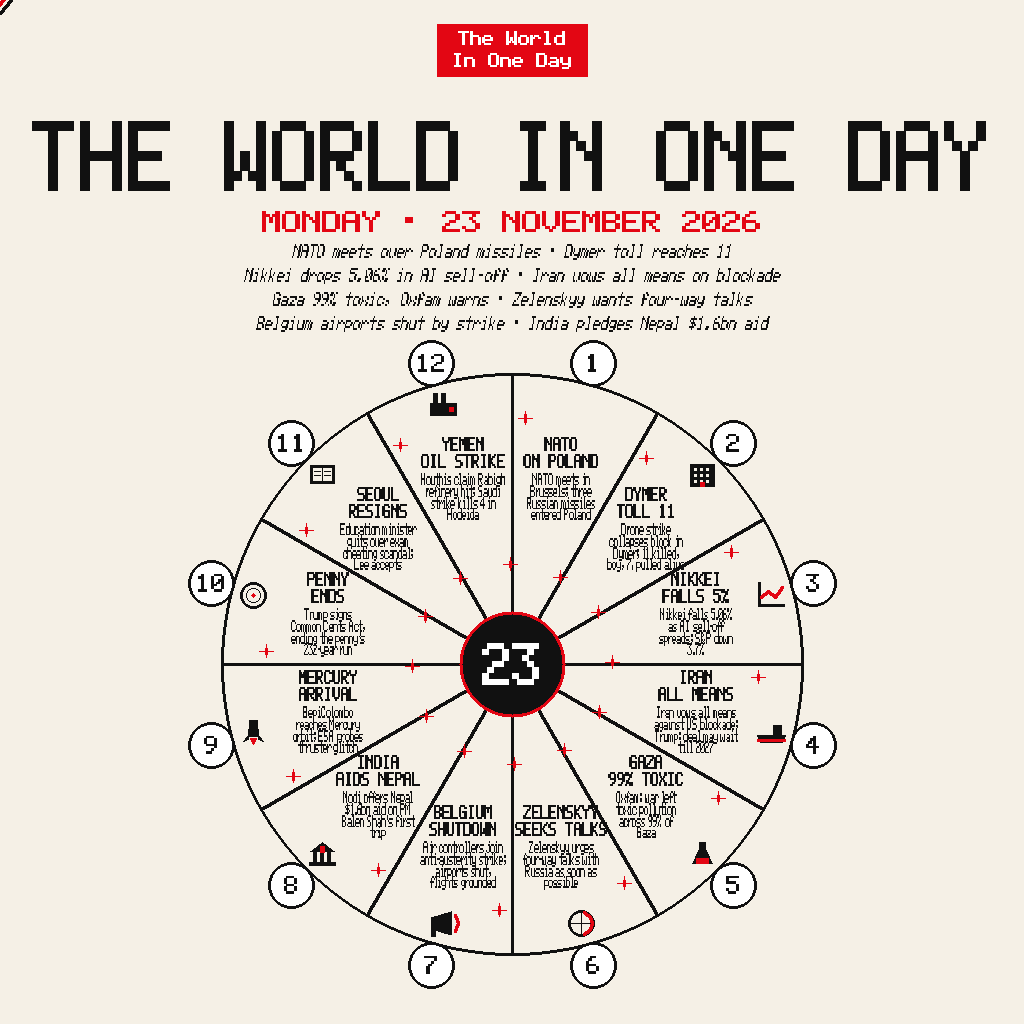
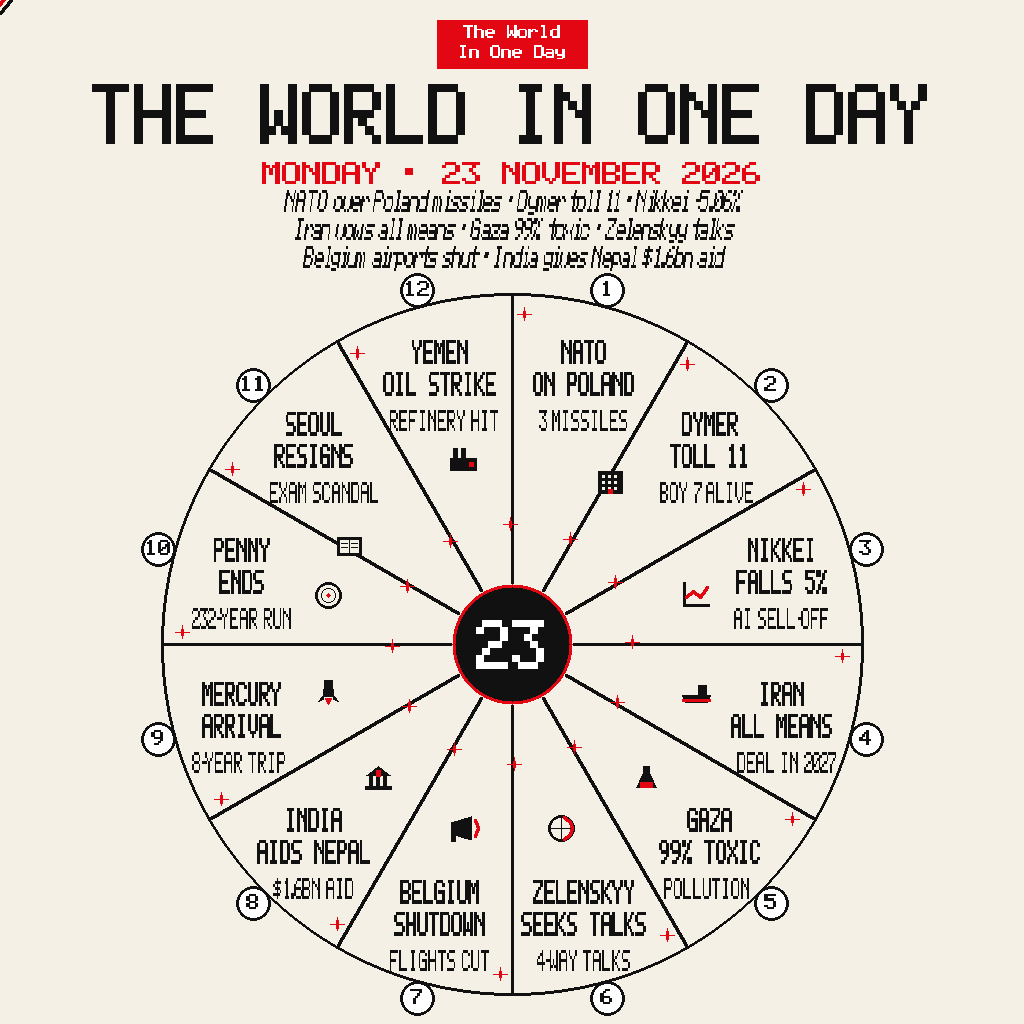
Legibility fix: bigger wheel (RIM 350), larger headlines, span-clamped text
- Wheel radius 290 -> 350 (EL: gedein lingkaranya), centre shifted to fit
- Headlines 1.4/2.0 -> 1.9/3.4 so they read at 300px; body cut to one
  short fact line per slice at 1.6/3.0; subtitle 4 lines -> 3 larger lines
- Fix wedge-span bug: tan-based ray sentinel had the wrong sign for the
  270-degree ray, mirroring the 240-270 and 270-300 spans to the wrong
  side (PENNY/MERCURY text landed in the wrong half). Rays now use a
  forward-direction test; lines are clamped into their wedge span
  instead of centred on the span, so nothing clips a spoke.
- Verified: two runs byte-identical, 1024x1024, 23,581 bytes, zero fit
  warnings, all 12 headlines + fact lines readable at 300px.

Changed region(s): [[0.0312, 0.0, 0.9688, 1.0], [0.1875, 0.4375, 0.2188, 0.4688]]

diff --git a/main.py b/main.py
@@ -4,14 +4,16 @@
 Stdlib only, no network, deterministic: two runs write identical bytes.
 Writes a 1024x1024 PNG to $MAKEFUN_OUTPUT_DIR/entry.png (default /output).
 Layout: Economist-style cover -- red masthead, huge condensed title,
-red date line, 4-line italic subtitle, and a 12-slice clock wheel, one
-slice per verified story of Monday 23 November 2026.
+red date line, 3-line italic subtitle, and a large 12-slice clock wheel
+(RIM 350), one slice per verified story of Monday 23 November 2026.
+Each slice carries a big two-line headline plus one short fact line,
+all sized to stay readable when the image is viewed at 300px.
 """
 import os
 import struct
 import sys
 import zlib
-from math import cos, pi, sin, sqrt, tan
+from math import cos, pi, sin, sqrt
 
 W = H = 1024
 CREAM = (245, 240, 230)
@@ -280,11 +282,11 @@ def text_c(s, cx, y, sx, sy, c, bold=False, italic=False, mono=True):
     text(s, cx - text_width(s, sx, mono) / 2, y, sx, sy, c, bold, italic, mono)
 
 # ---------------------------------------------------------------- wedges
-CX, CY = 512, 664
-RIM = 290
-ROSETTE = 52
-NUM_R = 312
-NUM_CIRCLE_R = 22
+CX, CY = 512, 644
+RIM = 350
+ROSETTE = 60
+NUM_R = 366
+NUM_CIRCLE_R = 16
 
 
 def _deg2rad(a):
@@ -292,11 +294,21 @@ def _deg2rad(a):
 
 
 def _ray_x(dy, a):
-    """x where the ray at angle a (deg, clockwise from top) crosses y=CY+dy."""
-    t = tan(_deg2rad(a))
-    if abs(t) > 1e6:
-        return 1e9 if t > 0 else -1e9
-    return CX - dy * t
+    """x where the ray at angle a (deg, clockwise from top) crosses y=CY+dy.
+
+    Returns None when the ray does not cross that row in the forward
+    direction (it points away from the row, or is horizontal). The old
+    tan-based version returned a huge sentinel with the wrong sign for
+    the 270-degree ray, which mirrored the spans of the 240-270 and
+    270-300 wedges onto the wrong side of the wheel.
+    """
+    c = cos(_deg2rad(a))
+    if abs(c) < 1e-9:
+        return None
+    t = -dy / c
+    if t < 0:
+        return None
+    return CX + sin(_deg2rad(a)) * t
 
 
 def wedge_span(a1, a2, y):
@@ -313,8 +325,22 @@ def wedge_span(a1, a2, y):
     hi = CX + dx
     x1 = _ray_x(dy, a1)
     x2 = _ray_x(dy, a2)
-    lo = max(lo, min(x1, x2))
-    hi = min(hi, max(x1, x2))
+    if x1 is None and x2 is None:
+        return None
+    if x1 is None:
+        # wedge extends from the x2 crossing toward a1's direction
+        if sin(_deg2rad(a1)) > 0:
+            lo = max(lo, x2)
+        else:
+            hi = min(hi, x2)
+    elif x2 is None:
+        if sin(_deg2rad(a2)) > 0:
+            lo = max(lo, x1)
+        else:
+            hi = min(hi, x1)
+    else:
+        lo = max(lo, min(x1, x2))
+        hi = min(hi, max(x1, x2))
     if hi <= lo:
         return None
     return (lo, hi)
@@ -335,7 +361,22 @@ def fit_span(a1, a2, y_top, height):
     return (lo, hi)
 
 
-def check_line(label, s, y_top, height, sx, a1, a2, tol=24, mono=True):
+def line_cx(top, height, a1, a2, bx, w):
+    """Centre x for a line so it sits inside its wedge span.
+
+    The wedge span shifts sideways across a line's rows (diagonal
+    spokes), so a line centred on the block centre can clip a spoke
+    even when its width fits. Keep the block centre when the line
+    fits there, and shift it only as far as needed to clear the span.
+    """
+    span = fit_span(a1, a2, top, height)
+    if span is None:
+        return bx
+    lo, hi = span
+    return min(max(bx, lo + w / 2), hi - w / 2)
+
+
+def check_line(label, s, y_top, height, sx, a1, a2, tol=0, mono=True):
     """Warn when a line is wider than its wedge span (plus tolerance)."""
     span = fit_span(a1, a2, y_top, height)
     w = text_width(s, sx, mono)
@@ -456,66 +497,59 @@ PICS = {
 # ---------------------------------------------------------------- layout
 # One slice per story. mid = (k-0.5)*30 degrees clockwise from top.
 # The text block is centred at polar(BLOCK_R, mid) and laid out in
-# screen coordinates: headline lines above the centre, content below.
-# Offsets are screen-y pixels from the block centre.
-BLOCK_R = 190
-HEAD_OFF = (-36, -19)
-BODY_OFF4 = (-1, 11, 23, 34)
-BODY_OFF3 = (-1, 11, 23)
-PIC_R = 268
+# screen coordinates: two big headline lines, then one short fact line.
+# Offsets are screen-y pixels from the block centre. The pictogram sits
+# on the mid-ray inside the text block (toward the rosette), clear of
+# the text boxes.
+BLOCK_R = 280
+HEAD_OFF = (-34, -2)
+BODY_OFF = (36,)
+PIC_R = 190
 
 SLICES = [
-    # (headline 2 lines, content lines, pictogram)
+    # (headline 2 lines, one short fact line, pictogram)
     (["NATO", "ON POLAND"],
-     ["NATO meets in", "Brussels; three", "Russian missiles", "entered Poland"],
+     ["3 MISSILES"],
      'shield'),
     (["DYMER", "TOLL 11"],
-     ["Drone strike", "collapses block in", "Dymer; 11 killed,",
-      "boy, 7, pulled alive"],
+     ["BOY 7 ALIVE"],
      'building'),
     (["NIKKEI", "FALLS 5%"],
-     ["Nikkei falls 5.06%", "as AI sell-off", "spreads; S&P down", "3.7%"],
+     ["AI SELL-OFF"],
      'chart'),
     (["IRAN", "ALL MEANS"],
-     ["Iran vows all means", "against US blockade;", "Trump: deal may wait",
-      "till 2027"],
+     ["DEAL IN 2027"],
      'tanker'),
     (["GAZA", "99% TOXIC"],
-     ["Oxfam: war left", "toxic pollution", "across 99% of", "Gaza"],
+     ["POLLUTION"],
      'flask'),
     (["ZELENSKYY", "SEEKS TALKS"],
-     ["Zelenskyy urges", "four-way talks with", "Russia as soon as",
-      "possible"],
+     ["4-WAY TALKS"],
      'globe'),
     (["BELGIUM", "SHUTDOWN"],
-     ["Air controllers join", "anti-austerity strike;", "airports shut,",
-      "flights grounded"],
+     ["FLIGHTS CUT"],
      'megaphone'),
     (["INDIA", "AIDS NEPAL"],
-     ["Modi offers Nepal", "$1.6bn aid on PM", "Balen Shah's first", "trip"],
+     ["$1.6BN AID"],
      'capitol'),
     (["MERCURY", "ARRIVAL"],
-     ["BepiColombo", "reaches Mercury", "orbit; ESA probes", "thruster glitch"],
+     ["8-YEAR TRIP"],
      'rocket'),
     (["PENNY", "ENDS"],
-     ["Trump signs", "Common Cents Act,", "ending the penny's",
-      "232-year run"],
+     ["232-YEAR RUN"],
      'coin'),
     (["SEOUL", "RESIGNS"],
-     ["Education minister", "quits over exam", "cheating scandal;",
-      "Lee accepts"],
+     ["EXAM SCANDAL"],
      'book'),
     (["YEMEN", "OIL STRIKE"],
-     ["Houthis claim Rabigh", "refinery hit; Saudi", "strike kills 4 in",
-      "Hodeida"],
+     ["REFINERY HIT"],
      'factory'),
 ]
 
 SUBTITLE = [
-    "NATO meets over Poland missiles \u00b7 Dymer toll reaches 11",
-    "Nikkei drops 5.06% in AI sell-off \u00b7 Iran vows all means on blockade",
-    "Gaza 99% toxic, Oxfam warns \u00b7 Zelenskyy wants four-way talks",
-    "Belgium airports shut by strike \u00b7 India pledges Nepal $1.6bn aid",
+    "NATO over Poland missiles \u00b7 Dymer toll 11 \u00b7 Nikkei -5.06%",
+    "Iran vows all means \u00b7 Gaza 99% toxic \u00b7 Zelenskyy talks",
+    "Belgium airports shut \u00b7 India gives Nepal $1.6bn aid",
 ]
 
 
@@ -530,16 +564,19 @@ def pic_offset(k, head, body, bx, by):
     the pictogram centre must stay >= 39px from the number-circle centre.
     """
     mid = (k - 0.5) * 30
+    a1 = (k - 1) * 30
+    a2 = k * 30
     boxes = []
     for i, h in enumerate(head):
-        w = text_width(h, 1.4)
-        boxes.append((bx - w / 2 - 3, by + HEAD_OFF[i] - 8,
-                      bx + w / 2 + 3, by + HEAD_OFF[i] + 8))
-    offs = BODY_OFF4 if len(body) == 4 else BODY_OFF3
+        w = text_width(h, 1.9)
+        lcx = line_cx(by + HEAD_OFF[i], 28, a1, a2, bx, w)
+        boxes.append((lcx - w / 2 - 3, by + HEAD_OFF[i] - 3,
+                      lcx + w / 2 + 3, by + HEAD_OFF[i] + 31))
     for j, ln in enumerate(body):
-        w = text_width(ln, 0.9, mono=False)
-        boxes.append((bx - w / 2 - 3, by + offs[j] - 7,
-                      bx + w / 2 + 3, by + offs[j] + 7))
+        w = text_width(ln, 1.6, mono=False)
+        lcx = line_cx(by + BODY_OFF[j], 24, a1, a2, bx, w)
+        boxes.append((lcx - w / 2 - 3, by + BODY_OFF[j] - 3,
+                      lcx + w / 2 + 3, by + BODY_OFF[j] + 27))
     nx, ny = polar(NUM_R, mid)
     for off in (0, -14, 14, -24, 24):
         px, py = polar(PIC_R, mid + off)
@@ -565,42 +602,41 @@ def draw_slice(k, head, body, pic):
     off = pic_offset(k, head, body, bx, by)
     px, py = polar(PIC_R, mid + off)
     PICS[pic](int(round(px)), int(round(py)))
-    # headlines, bold monospace, centred on the block centre x
+    # headlines, bold monospace, centred inside their wedge span
     for i, h in enumerate(head):
-        top = by + HEAD_OFF[i] - 7
-        check_line("slice %d head %d" % (k, i + 1), h, top, 15, 1.4, a1, a2)
-        text_c(h, bx, top, 1.4, 2.0, INK, bold=True)
-    # content lines, proportional
-    offs = BODY_OFF4 if len(body) == 4 else BODY_OFF3
+        top = by + HEAD_OFF[i]
+        check_line("slice %d head %d" % (k, i + 1), h, top, 28, 1.9, a1, a2)
+        text_c(h, line_cx(top, 28, a1, a2, bx, text_width(h, 1.9)), top, 1.9, 3.4, INK, bold=True)
+    # one short fact line, proportional
     for j, ln in enumerate(body):
-        top = by + offs[j] - 6
-        check_line("slice %d body %d" % (k, j + 1), ln, top, 14, 0.9, a1, a2,
+        top = by + BODY_OFF[j]
+        check_line("slice %d body %d" % (k, j + 1), ln, top, 24, 1.6, a1, a2,
                    mono=False)
-        text_c(ln, bx, top, 0.9, 1.75, INK, mono=False)
+        text_c(ln, line_cx(top, 24, a1, a2, bx, text_width(ln, 1.6, mono=False)), top, 1.6, 3.0, INK, mono=False)
     # red sparkles, scattered inside the wedge
-    for (r, ang) in ((246, mid - 12), (100, mid + 14)):
+    for (r, ang) in ((330, mid - 13), (120, mid + 14)):
         sxp, syp = polar(r, ang)
         star4(int(round(sxp)), int(round(syp)), 7, RED)
 
 
 def draw():
     # masthead
-    fill_rect(437, 24, 587, 76, RED)
-    text_c("The World", 512, 31, 2, 2, WHITE, bold=True)
-    text_c("In One Day", 512, 53, 2, 2, WHITE, bold=True)
+    fill_rect(437, 20, 587, 68, RED)
+    text_c("The World", 512, 25, 1.8, 1.8, WHITE, bold=True)
+    text_c("In One Day", 512, 45, 1.8, 1.8, WHITE, bold=True)
     # title, date, subtitle
-    text_c("THE WORLD IN ONE DAY", 512, 121, 8, 10, INK, bold=True)
-    text_c("MONDAY \u00b7 23 NOVEMBER 2026", 512, 211, 10 / 3, 3, RED, bold=True)
+    text_c("THE WORLD IN ONE DAY", 512, 84, 7, 8.5, INK, bold=True)
+    text_c("MONDAY \u00b7 23 NOVEMBER 2026", 512, 162, 10 / 3, 3.2, RED, bold=True)
     for i, ln in enumerate(SUBTITLE):
-        text_c(ln, 512, 244 + i * 24, 4 / 3, 2, INK, italic=True)
+        text_c(ln, 512, 190 + i * 28, 1.8, 3.1, INK, italic=True, mono=False)
     # wheel: rim and spokes first, text and icons on top
     circle(CX, CY, RIM, INK, 3)
     for k in range(12):
         a = _deg2rad(k * 30)
-        x0 = CX + 54 * sin(a)
-        y0 = CY - 54 * cos(a)
-        x1 = CX + 288 * sin(a)
-        y1 = CY - 288 * cos(a)
+        x0 = CX + 62 * sin(a)
+        y0 = CY - 62 * cos(a)
+        x1 = CX + 348 * sin(a)
+        y1 = CY - 348 * cos(a)
         line(int(round(x0)), int(round(y0)), int(round(x1)), int(round(y1)),
              INK, 2)
     # number circles
@@ -610,11 +646,11 @@ def draw():
         nx, ny = int(round(nx)), int(round(ny))
         fill_circle(nx, ny, NUM_CIRCLE_R, WHITE)
         circle(nx, ny, NUM_CIRCLE_R, INK, 2)
-        text_c(str(k), nx, ny - 9, 2.5, 2.5, INK, bold=True)
+        text_c(str(k), nx, ny - 9, 2.2, 2.2, INK, bold=True)
     # rosette
-    fill_circle(CX, CY, 53, RED)
-    fill_circle(CX, CY, 50, INK)
-    text_c("23", CX, CY - 21, 5, 6, WHITE, bold=True)
+    fill_circle(CX, CY, ROSETTE, RED)
+    fill_circle(CX, CY, ROSETTE - 3, INK)
+    text_c("23", CX, CY - 24, 6, 7, WHITE, bold=True)
     # slices
     for k, (head, body, pic) in enumerate(SLICES, start=1):
         draw_slice(k, head, body, pic)

diff --git a/README.md b/README.md
@@ -7,7 +7,9 @@ A single-file Python program that draws an Economist-style "World Ahead"
 cover for one day of world news: **Monday 23 November 2026**. The cover
 carries twelve verified stories from that day on a twelve-slice clock wheel,
 with the masthead *The World In One Day*, a condensed headline, a red date
-line, a four-line serif subtitle, and a pictogram in every slice.
+line, a three-line italic subtitle, and a pictogram in every slice.
+Each slice carries a big two-line headline plus one short fact line,
+sized to stay readable at 300 px.
 
 ## The twelve stories
 
@@ -50,8 +52,8 @@ wedge, so a bad line break is caught before the image ships.
 
 ## Layout
 
-The wheel is centred at (512, 664) with a 290 px rim and a rosette
+The wheel is centred at (512, 644) with a 350 px rim and a rosette
 marked "23". Each slice's text block is centred on its mid-ray at
-radius 190 px, in plain screen coordinates, so the sideways slices
+radius 280 px, in plain screen coordinates, so the sideways slices
 read left to right like the top and bottom ones. Every line is checked
 against its wedge span before it is drawn.
